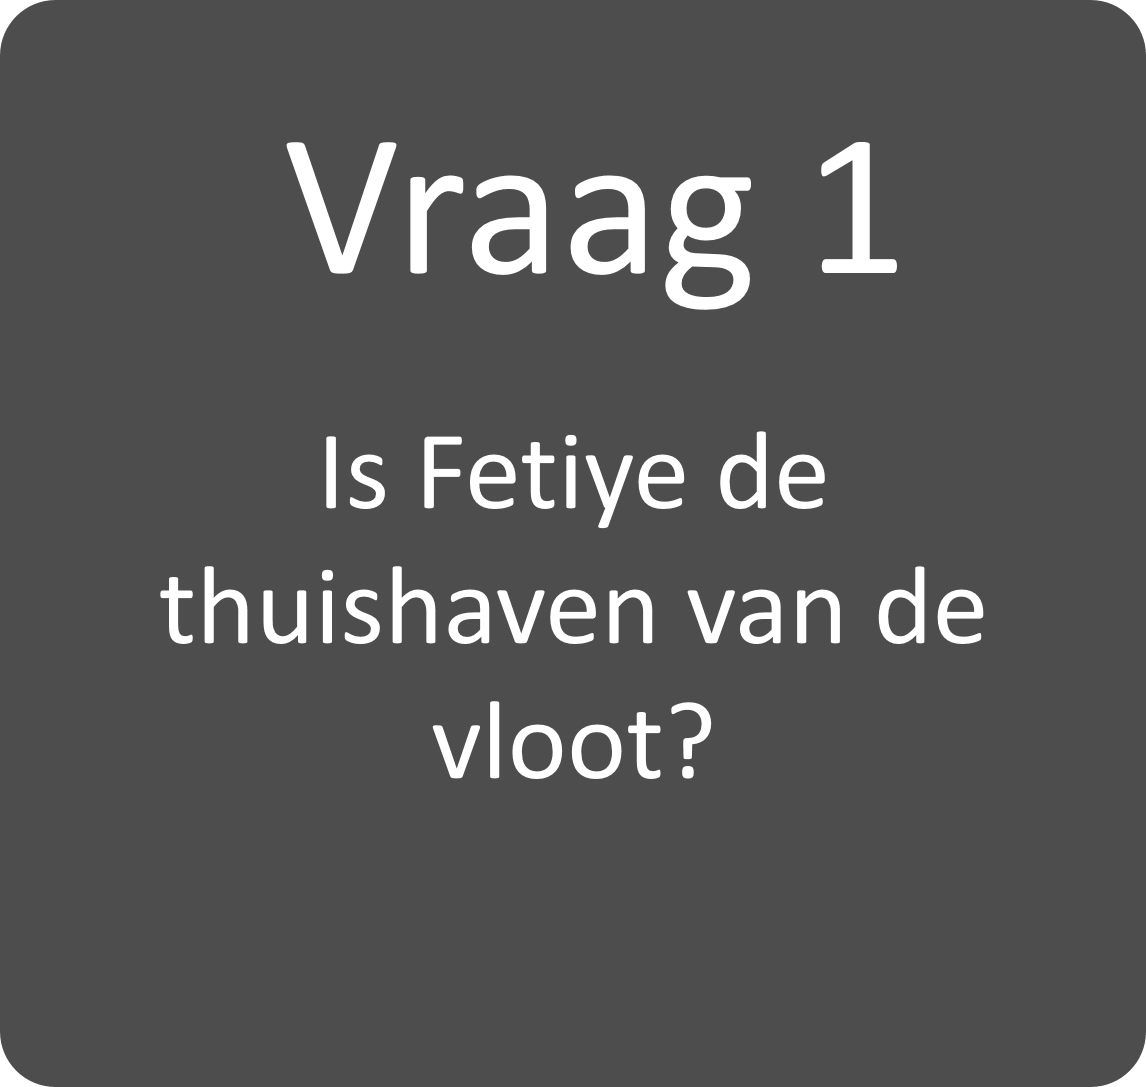
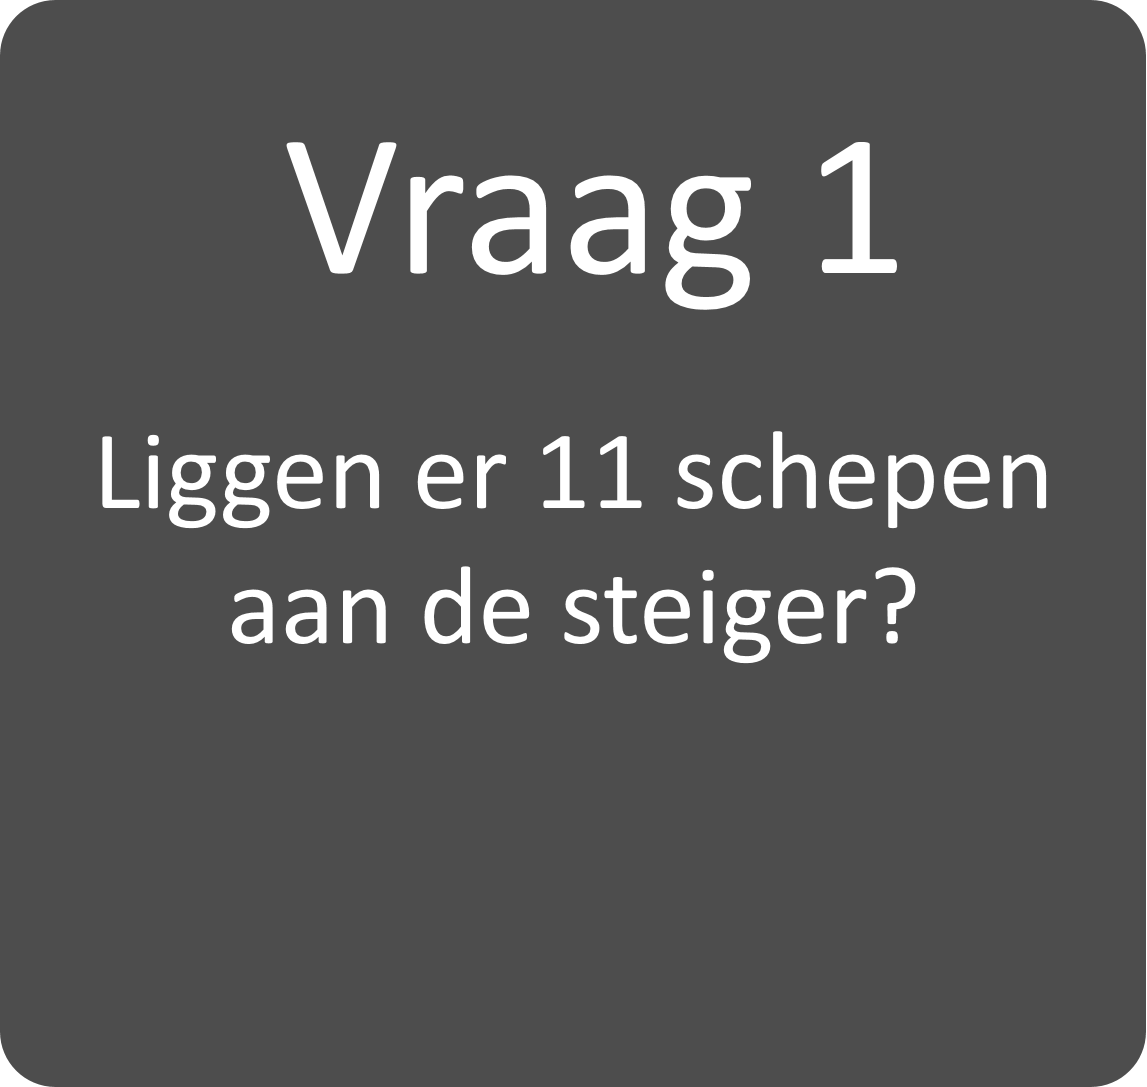
final

diff --git a/krpano_html/index.html b/krpano_html/index.html
@@ -280,10 +280,10 @@ als master inzet. nu knippert hij omdat hij steeds een stukje terug gaat.
 					
 							if (vid == 'leeg_krpano'){			
 								var krpano = document.getElementById("krpanoSWFObject");
-								krpano.call( "knoppen_tonen()" );			
-								krpano.call( "setSizeVierkant()" );		
-								krpano.set("layer[magic_content_info].visible","false");	
-								krpano.set("layer[magic_content_info2].visible","false");									
+								//krpano.call( "knoppen_tonen()" );			
+								//krpano.call( "setSizeVierkant()" );		
+								//krpano.set("layer[magic_content_info].visible","false");	
+								//krpano.set("layer[magic_content_info2].visible","false");									
 							}	
 							
 							
@@ -311,19 +311,76 @@ als master inzet. nu knippert hij omdat hij steeds een stukje terug gaat.
 								sound_nietgoed.play();
 							}									
 
+							
+			<!-- VRAAG 1  -->
 							if (vid == 'call_vraag1_ja'){			
 								var krpano = document.getElementById("krpanoSWFObject");
 								krpano.call( "action_vraag1_ja()" );		
 								console.log ('gaat de goede call weg??'); 
 							}										
 							
+							if (vid == 'call_vraag1_nee'){			
+								var krpano = document.getElementById("krpanoSWFObject");
+								krpano.call( "action_vraag1_nee()" );		
+								console.log ('action_vraag1_nee'); 
+							}												
+							
 							if (vid == 'call_vraag1_goed'){			
 								var krpano = document.getElementById("krpanoSWFObject");
 								krpano.call( "action_vraag1_goed()" );		
 								console.log ('gaat de goede call weg??'); 
-							}				
+							}	
 
+							if (vid == 'call_vraag1_fout'){			
+								var krpano = document.getElementById("krpanoSWFObject");
+								krpano.call( "action_vraag1_fout()" );		
+								console.log ('action_vraag1_fout??'); 
+							}				
 							
+
+			<!-- VRAAG 2  -->
+							if (vid == 'call_vraag2_ja'){			
+								var krpano = document.getElementById("krpanoSWFObject");
+								krpano.call( "action_vraag2_ja()" );		
+								console.log ('gaat de goede call weg??'); 
+							}										
+							
+							if (vid == 'call_vraag2_nee'){			
+								var krpano = document.getElementById("krpanoSWFObject");
+								krpano.call( "action_vraag2_nee()" );		
+								console.log ('action_vraag2_nee'); 
+							}												
+							
+							if (vid == 'call_vraag2_goed'){			
+								var krpano = document.getElementById("krpanoSWFObject");
+								krpano.call( "action_vraag2_goed()" );		
+								console.log ('gaat de goede call weg??'); 
+							}	
+
+							if (vid == 'call_vraag2_fout'){			
+								var krpano = document.getElementById("krpanoSWFObject");
+								krpano.call( "action_vraag2_fout()" );		
+								console.log ('action_vraag2_fout??'); 
+							}			
+							
+							
+			<!-- EINDSCOSRE  -->							
+							
+							if (vid == 'call_eindscore'){			
+								var krpano = document.getElementById("krpanoSWFObject");
+								krpano.call( "action_eindscore()" );		
+								console.log ('action_eindscore??'); 
+							}											
+	
+							if (vid == 'call_eindscore_close'){			
+								var krpano = document.getElementById("krpanoSWFObject");
+								krpano.call( "action_eindscore_close()" );		
+								console.log ('komt hij fucking hier??'); 
+							}			
+							
+							
+							
+						
 							
 							
 							
@@ -346,7 +403,6 @@ als master inzet. nu knippert hij omdat hij steeds een stukje terug gaat.
 			window.send_scene1_krpano = function(){
 				console.log ('scene1_krpano'); 
 				socket.emit('scene', 'scene1_krpano');	
-				
 			}
 
 			window.send_scene2_krpano = function(){
@@ -388,21 +444,63 @@ als master inzet. nu knippert hij omdat hij steeds een stukje terug gaat.
 				socket.emit('vraag', 'sound_nietgoed');
 			}					
 
+			
+// vraag1
 			window.send_call_vraag1_ja	 = function(){
 				console.log ('window.send_call_vraag1_ja weet je het zeker'); 
 				socket.emit('vraag', 'call_vraag1_ja');
 			}			
 
-
+			window.send_call_vraag1_nee	 = function(){
+				console.log ('window.send_call_vraag1_nee'); 
+				socket.emit('vraag', 'call_vraag1_nee');
+			}
 			
 			window.send_call_vraag1_goed  = function(){
 				console.log ('	 werkt deze wel?  '); 
 				socket.emit('vraag', 'call_vraag1_goed');
 			}				
-		
+			
+			window.send_call_vraag1_fout  = function(){
+				console.log ('	 window.send_call_vraag1_fout'); 
+				socket.emit('vraag', 'call_vraag1_fout');
+			}				
 
+// vraag2
 
+			window.send_call_vraag2_ja	 = function(){
+				console.log ('window.send_call_vraag2_ja weet je het zeker'); 
+				socket.emit('vraag', 'call_vraag2_ja');
+			}			
 
+			window.send_call_vraag2_nee	 = function(){
+				console.log ('window.send_call_vraag2_nee'); 
+				socket.emit('vraag', 'call_vraag2_nee');
+			}
+			
+			window.send_call_vraag2_goed  = function(){
+				console.log ('	 werkt deze wel?  '); 
+				socket.emit('vraag', 'call_vraag2_goed');
+			}				
+			
+			window.send_call_vraag2_fout  = function(){
+				console.log ('	 window.send_call_vraag2_fout'); 
+				socket.emit('vraag', 'call_vraag2_fout');
+			}							
+			
+// EINDSCORE		
+			
+			window.send_call_eindscore  = function(){
+				console.log ('window.send_call_eindscore'); 
+				socket.emit('vraag', 'call_eindscore');
+			}					
+
+			window.send_call_eindscore_close  = function(){
+				console.log ('window.send_call_eindscore_close'); 
+				socket.emit('vraag', 'call_eindscore_close');
+			}			
+			
+			
 	
 			
 		}); // einde function
